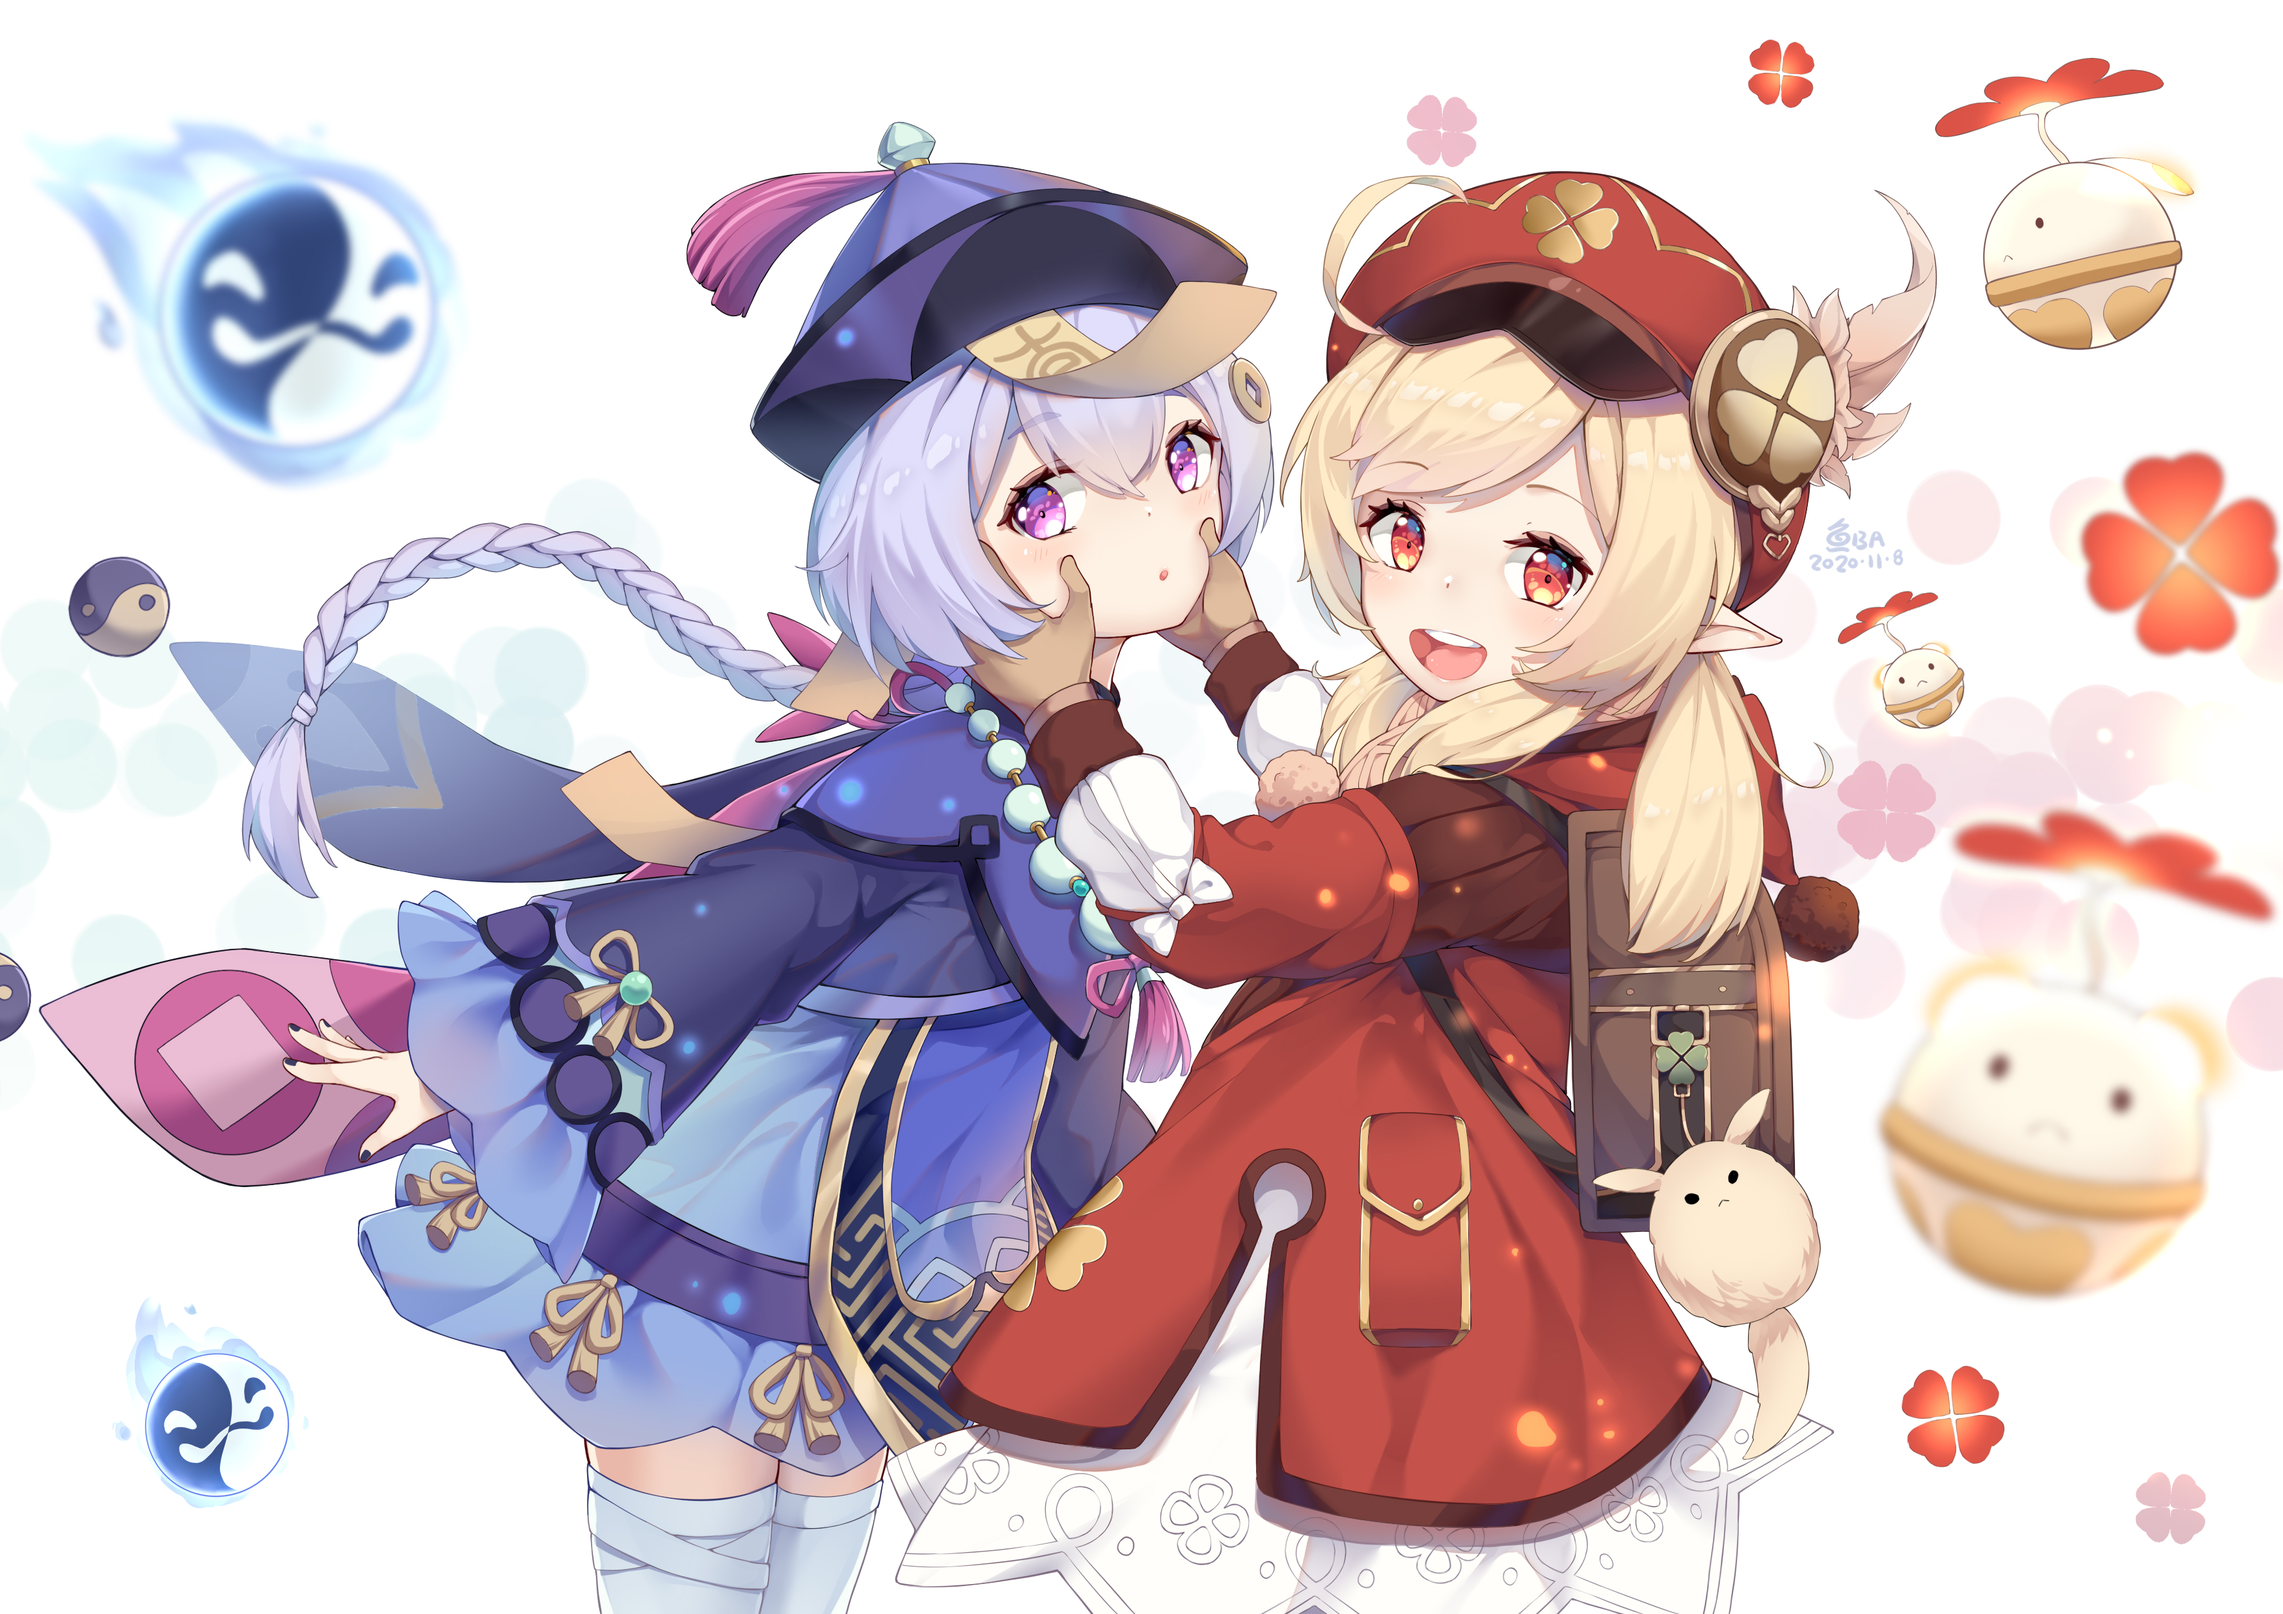
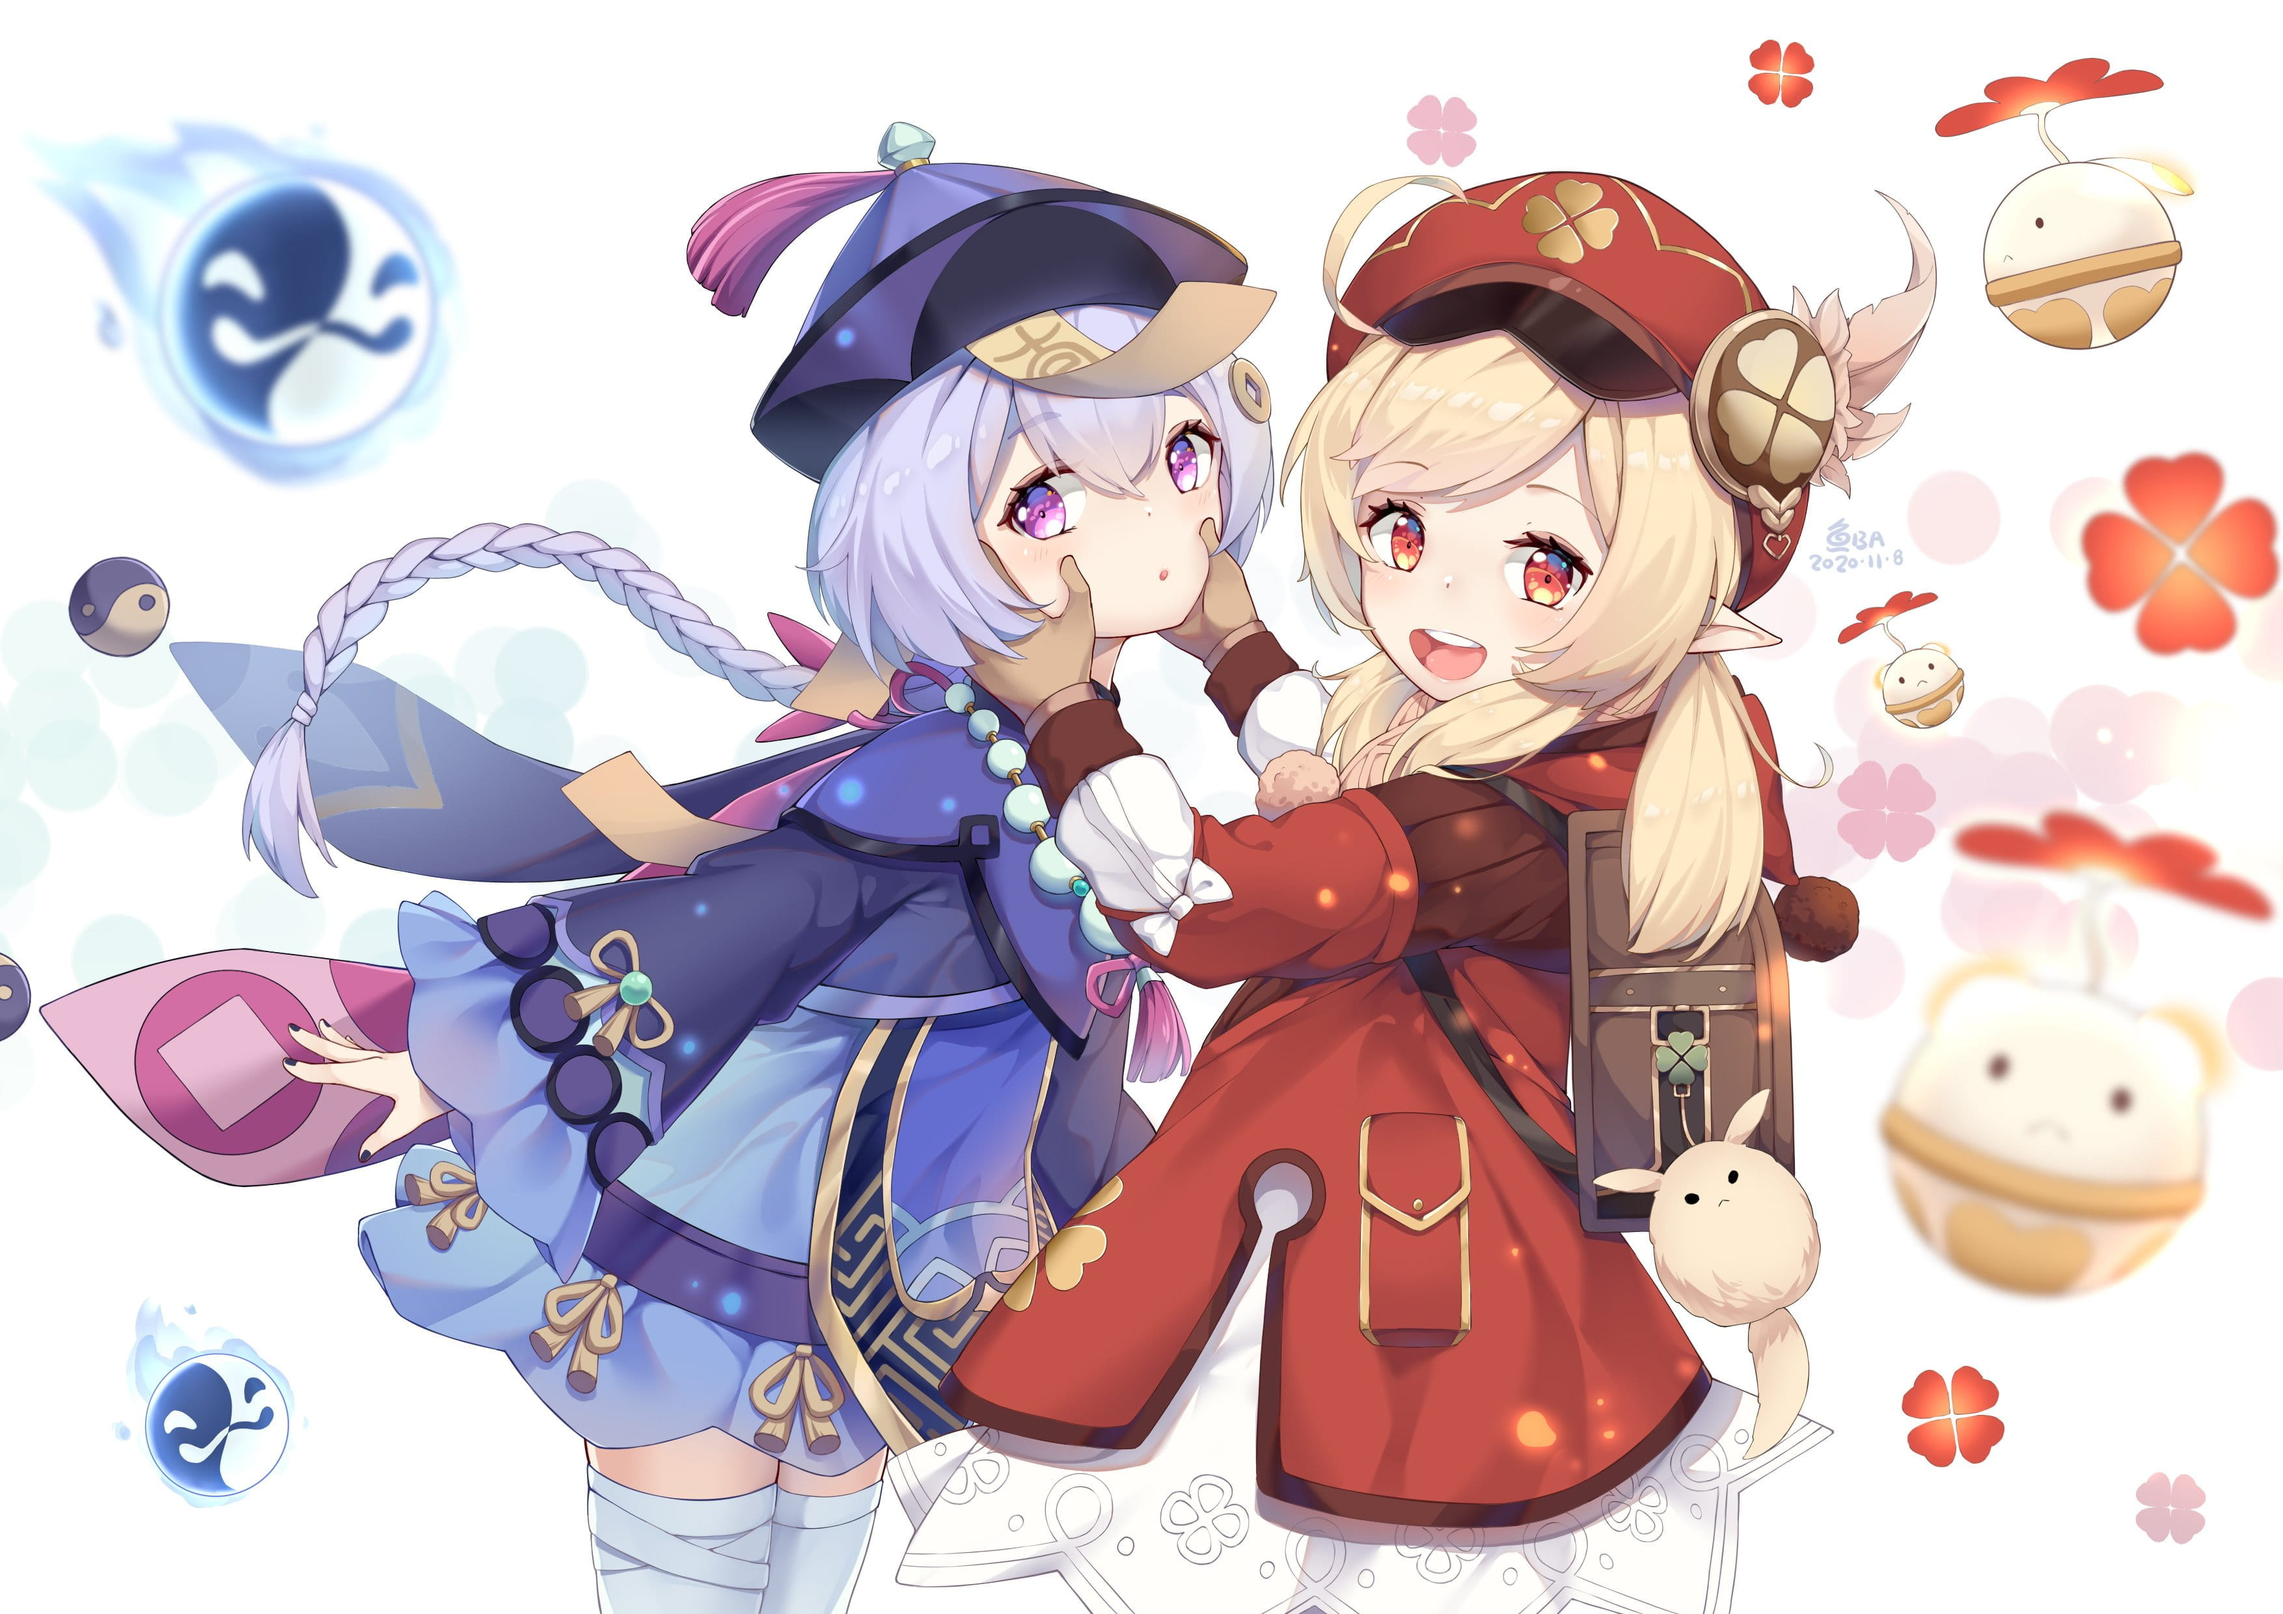
设置成有损压缩，封面图统一换成JPG，进一步降低图片大小

diff --git a/source/_posts/11-release-mcdiscordchat.md b/source/_posts/11-release-mcdiscordchat.md
@@ -18,3 +18,4 @@ MCDiscordChat 已经更新到 1.6.0 - 2021/6/30 啦！
 
 ## 简介
 
+施工中ヾ(•ω•`)o
